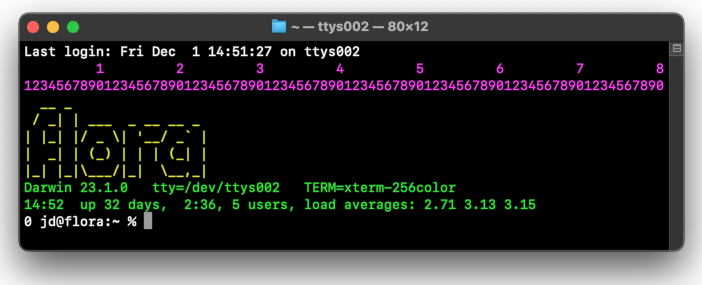
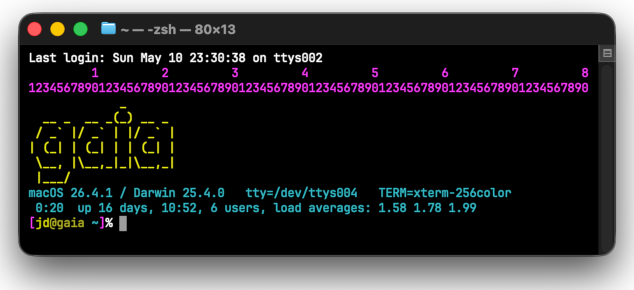
refresh descriptions/screenshots

Changed region(s): [[0.0, 0.0281, 0.989, 0.8982]]

diff --git a/README.md b/README.md
@@ -1,19 +1,29 @@
-Some doo-dads and whats-its for the command line
+Some command-line utilities I've written and continue to find useful.
 
-Slowly publishing things as I find them and clean them up
+Public domain (under CC0, https://creativecommons.org/publicdomain/zero/1.0/).
+Use them however you like.
 
----
-
-* [ssh-diff](ssh-diff) - diff -u two files, allowing scp-like SSH paths
-
-* [flac2mp3](flac2mp3) - convert flac files to high-quality VBR mp3 \[wrapper
-  for ffmpeg\]
-
-* [logininfo](logininfo) Print some terminal, host, and shell info on login \[POSIX sh\]
-
-![logininfo output](example-output/logininfo.png)
-
-* [showcolors](showcolors) - Test ANSI control sequences for color (and
-  other text decorations) \[Python\]
+### [showcolors](showcolors)
+Test "ANSI color" and other SGR control sequences. (Python)
 
 ![showcolors output](example-output/showcolors.png)
+
+
+### [ssh-diff](ssh-diff)
+Diff two files, allowing scp-like paths of the form `[user@]ssh-host:path`.
+(bash; wraps `diff` and `ssh`)
+
+```
+% ssh-diff sandbox:dev/file host:deploy/file
+...
+```
+
+### [flac2mp3](flac2mp3)
+Convert FLAC files to high-quality VBR MP3. (POSIX sh; requires `ffmpeg`)
+
+
+### [logininfo](logininfo)
+Pretty print some system and terminal info on login. (bash; uses `figlet` if
+available)
+
+![logininfo output](example-output/logininfo.png)
